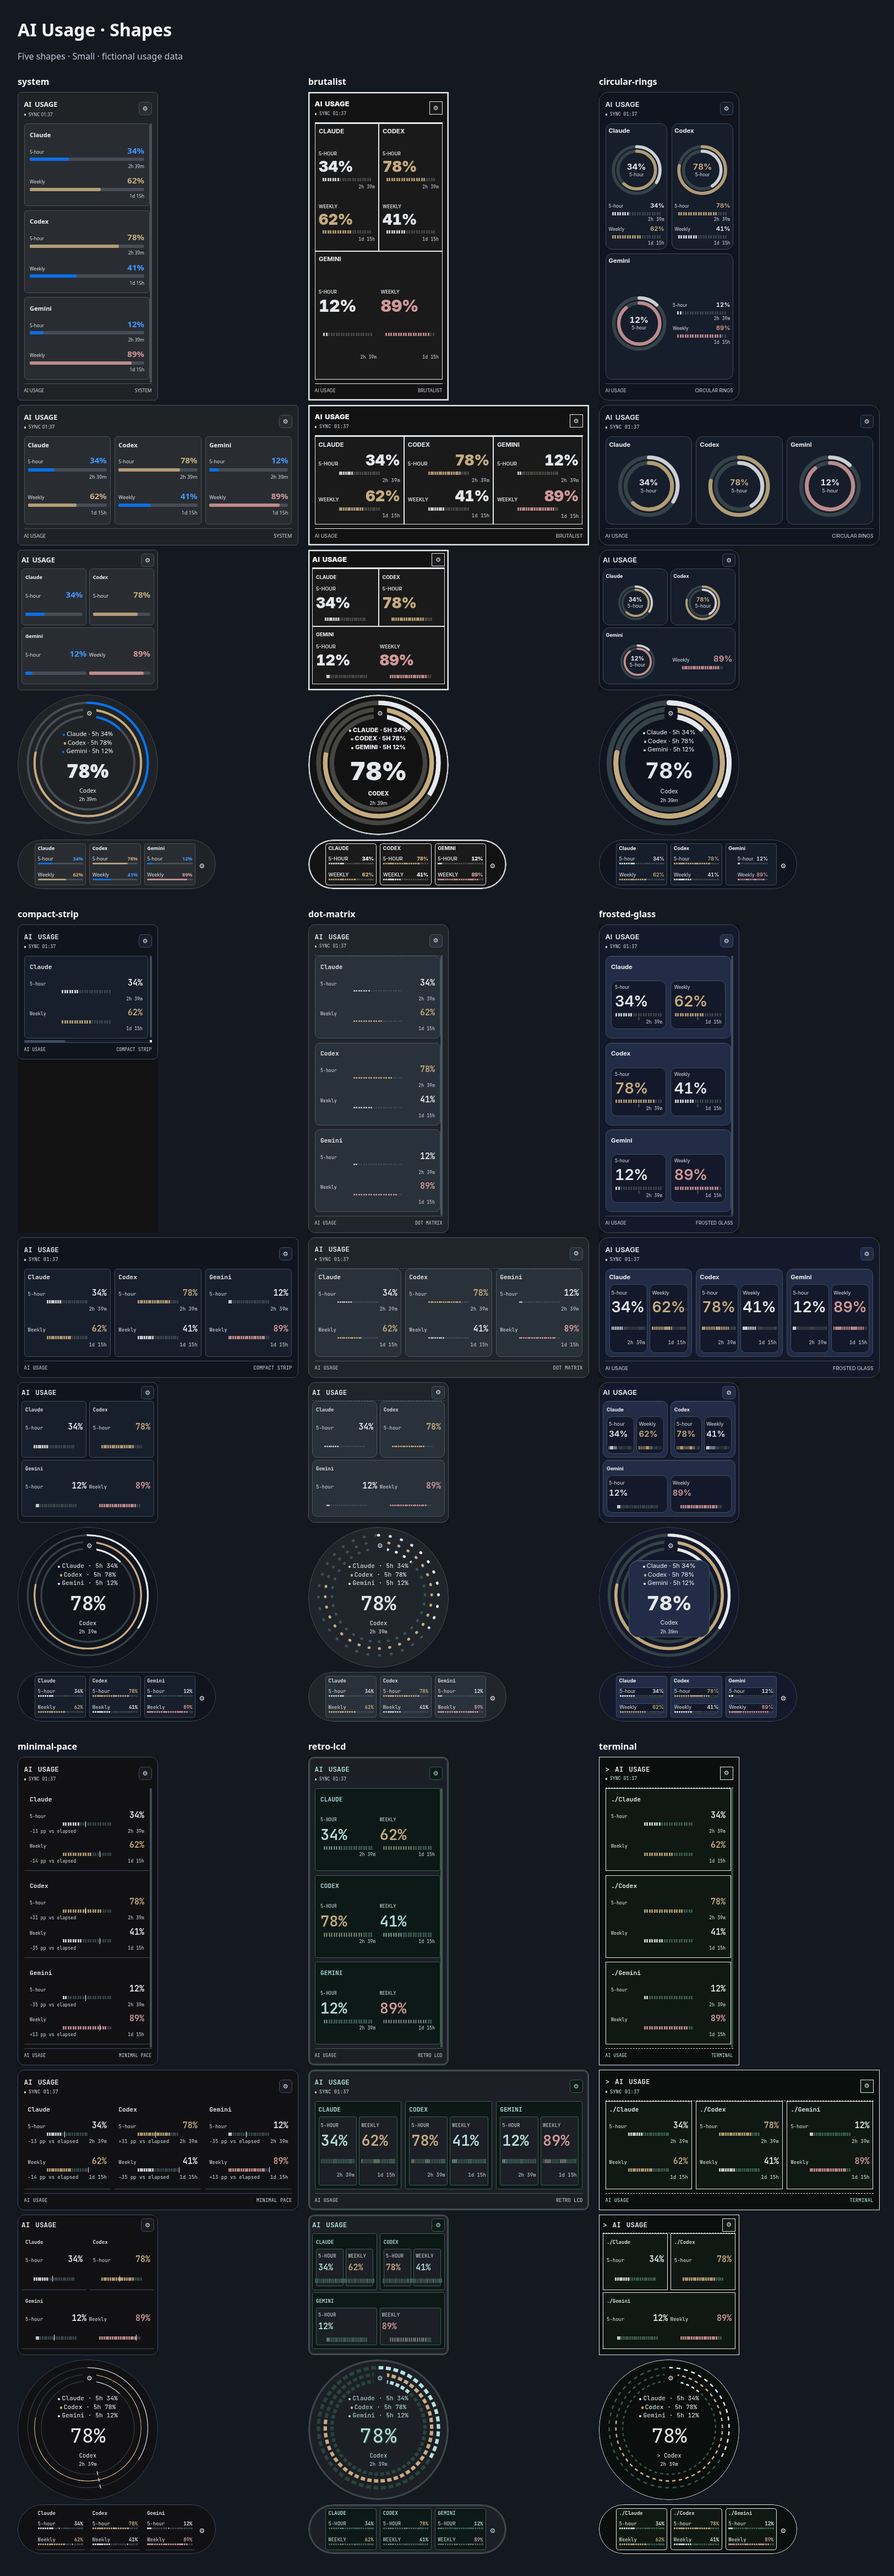
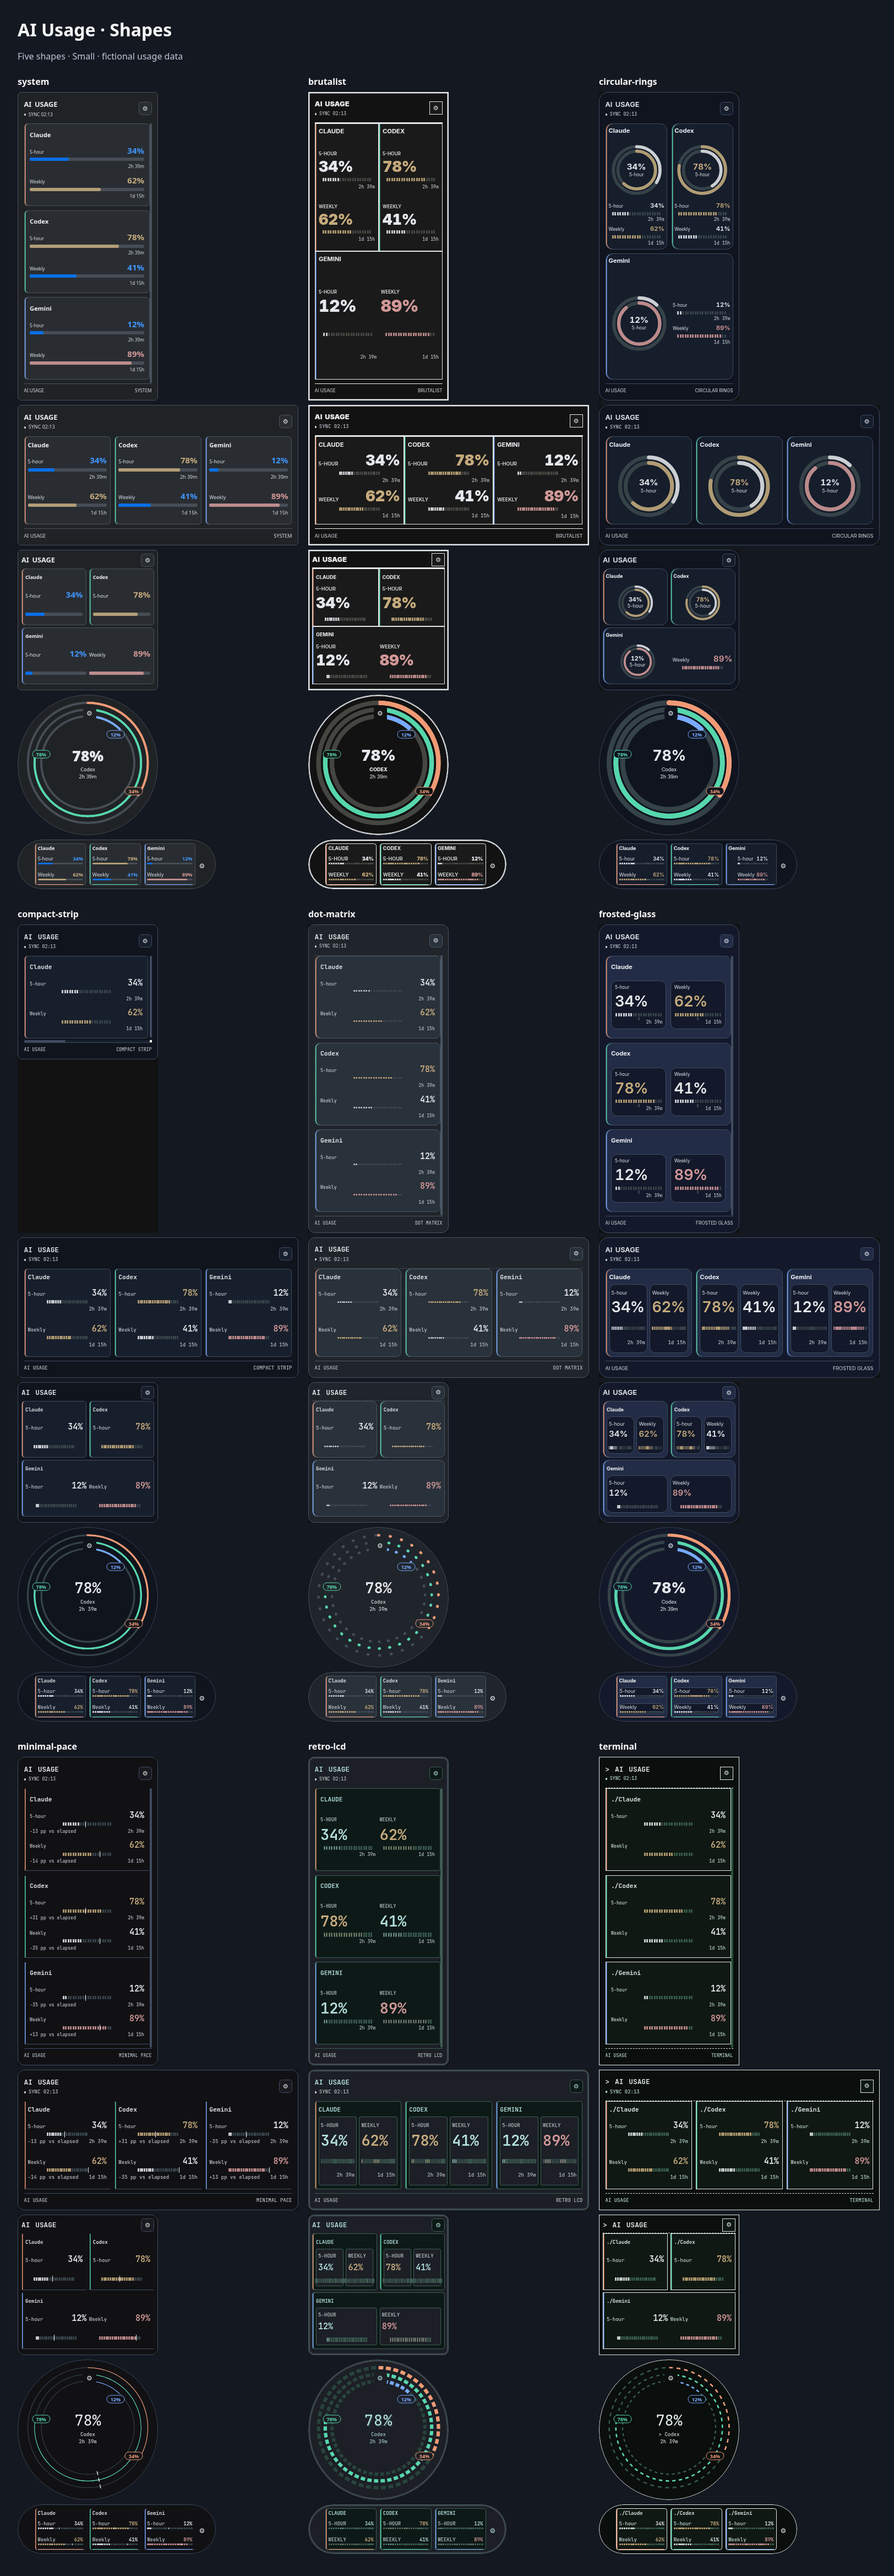
docs: refresh circle screenshots

diff --git a/README.md b/README.md
@@ -185,6 +185,6 @@ and 340 × 340 for square; all five size presets scale proportionally.
 
 ### Shapes
 
-Choose Portrait, Landscape (2:1), Square, Circle Dial, or Pill (4:1) in Settings → Layout & Position. Every theme uses the same dimensions for a given shape and size. Circle and Pill support up to three providers per widget; choose them in **Providers on this widget**. Other providers remain available in the rectangular layouts. Round shapes keep Settings and the right-click menu inside their silhouette and use native input masks so transparent corners pass clicks through to the desktop.
+Choose Portrait, Landscape (2:1), Square, Circle Dial, or Pill (4:1) in Settings → Layout & Position. Every theme uses the same dimensions for a given shape and size. Circle shows percentages beside arc endpoints, with automatic spacing for nearby values. Provider colors are shared across shapes: choose custom colors or reset each provider in **Appearance / Theme → Provider colors**. Low contrast and similar colors trigger a warning; Mono keeps patterned rings. Circle and Pill support up to three providers per widget; choose them in **Providers on this widget**. Other providers remain available in the rectangular layouts. Round shapes keep Settings and the right-click menu inside their silhouette and use native input masks so transparent corners pass clicks through to the desktop.
 
 ![Five shapes with fictional usage data](docs/screenshots/shapes.png)
